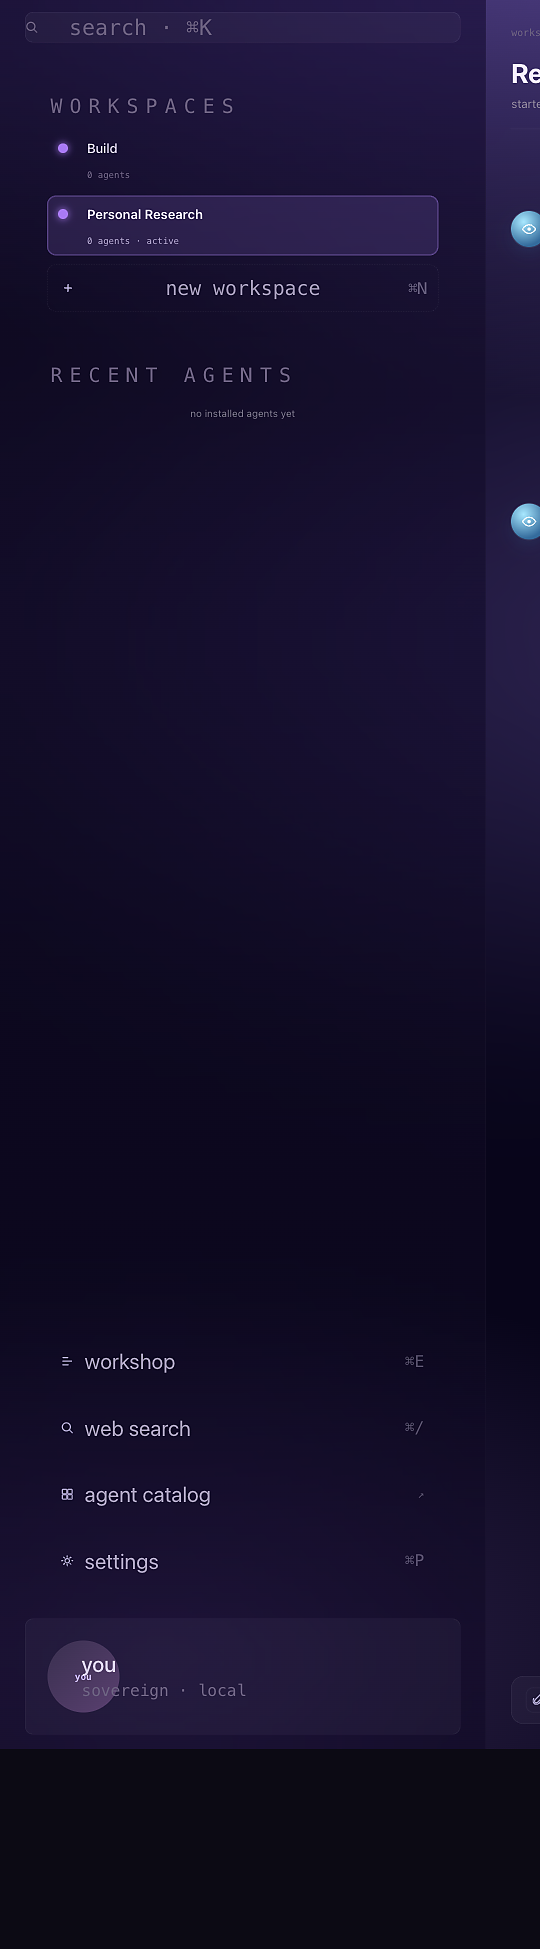
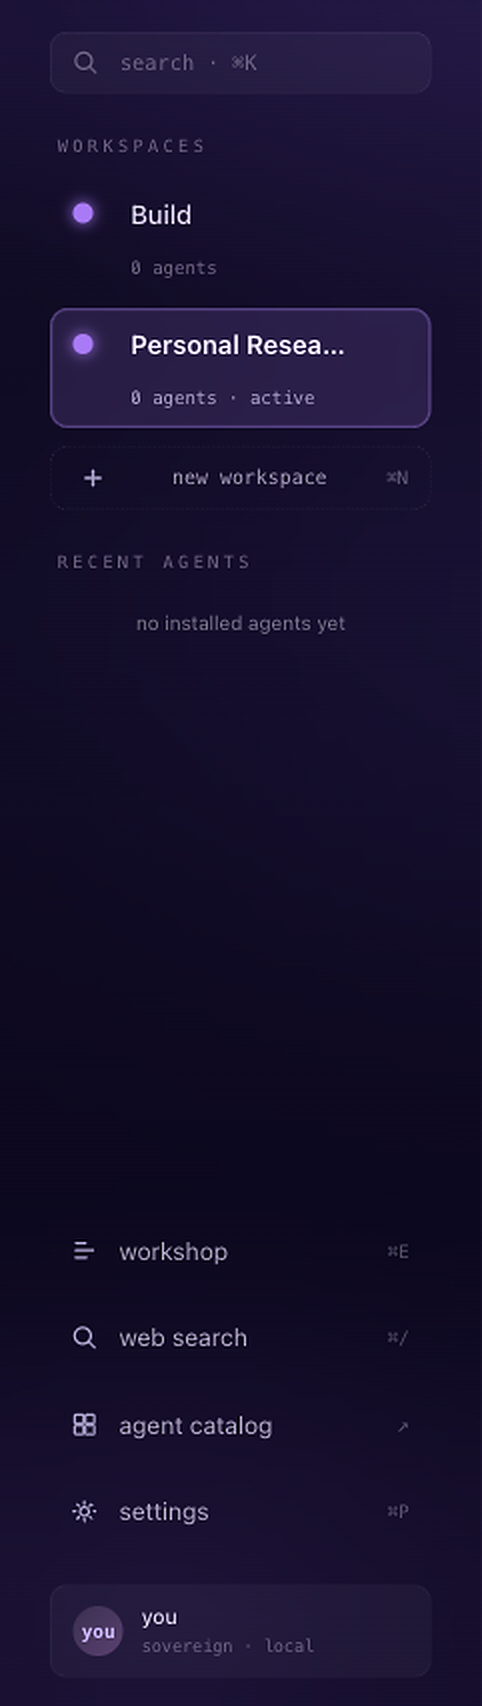
fix(guide): two-column layout for narrow pages · smaller markers · cockpit content visible
Three things were broken on the sidebar/cockpit pages:

  1. Image and legend competed for vertical space — at 64vh max-height
     with the tall 1:5.6 cockpit aspect, the image rendered as a thin
     sliver and the legend rows pushed under the sticky bottom nav.

  2. Markers were 32px which felt heavy at the displayed image scale.

  3. Recaptured cockpit at viewport 1600×900 (vs. the earlier 3200×2000
     capture). The shorter natural height of 853px gives a 1:2.7 aspect
     instead of 1:5.6 — fits in the available vertical without becoming
     a sliver. Cropped + 2× Lanczos upscaled + sharpened for crispness.

Layout fix uses CSS :has() — when the page contains .nx-g-shot-narrow
or .nx-g-shot-cockpit, the stage switches to a two-column grid: image
on the left at min(320px), legend on the right stacked vertically. The
title and body stay full-width above. The image can now be 70vh tall
without competing for room with the legend.

Markers shrunk 32px → 22px (font 14→11) so they sit naturally on
features without overpowering the screenshot.

diff --git a/nexus/aurora/app.css b/nexus/aurora/app.css
@@ -2142,6 +2142,38 @@ body.nx-cockpit-hidden .nx-cockpit-rail { display: none; }
   /* No per-render rise — the view-transition crossfade handles smoothness. */
   padding-top: 40px;
 }
+
+/* Narrow shots (sidebar/cockpit) — give them a side-by-side image+legend
+   layout so the tall image can use vertical space and the legend doesn't
+   compete with it. Uses :has() — fine on modern WKWebView/Chromium. */
+.nx-guide-stage:has(.nx-g-shot-narrow),
+.nx-guide-stage:has(.nx-g-shot-cockpit) {
+  display: grid;
+  grid-template-columns: minmax(220px, 320px) 1fr;
+  gap: 32px;
+  align-items: start;
+  column-gap: 36px;
+}
+.nx-guide-stage:has(.nx-g-shot-narrow) > .nx-g-eyebrow,
+.nx-guide-stage:has(.nx-g-shot-narrow) > .nx-g-title,
+.nx-guide-stage:has(.nx-g-shot-narrow) > .nx-g-body,
+.nx-guide-stage:has(.nx-g-shot-cockpit) > .nx-g-eyebrow,
+.nx-guide-stage:has(.nx-g-shot-cockpit) > .nx-g-title,
+.nx-guide-stage:has(.nx-g-shot-cockpit) > .nx-g-body {
+  grid-column: 1 / -1;
+}
+.nx-guide-stage:has(.nx-g-shot-narrow)  > .nx-g-shot-wrap,
+.nx-guide-stage:has(.nx-g-shot-cockpit) > .nx-g-shot-wrap {
+  grid-column: 1;
+  align-self: start;
+  margin-bottom: 0;
+}
+.nx-guide-stage:has(.nx-g-shot-narrow)  > .nx-g-legend,
+.nx-guide-stage:has(.nx-g-shot-cockpit) > .nx-g-legend {
+  grid-column: 2;
+  grid-template-columns: 1fr;     /* stack legend items vertically */
+  align-self: start;
+}
 .nx-g-eyebrow {
   font-family: var(--nx-font-mono);
   font-size: 10.5px; letter-spacing: 0.30em;
@@ -2212,35 +2244,38 @@ body.nx-cockpit-hidden .nx-cockpit-rail { display: none; }
    so the image renders at native aspect without letterboxing — markers
    positioned in image-percentage space then land exactly on features. */
 .nx-g-shot-wrap.nx-g-shot-narrow  { max-width: 320px; }
-.nx-g-shot-wrap.nx-g-shot-cockpit { max-width: 380px; }
+.nx-g-shot-wrap.nx-g-shot-cockpit { max-width: 320px; }
 
 .nx-g-shot {
   display: block;
   width: 100%;
   height: auto;
-  max-height: 64vh;
-  /* No object-fit — width:100%/height:auto preserves aspect, no letterboxing.
-     The wrap matches the image's rendered box exactly so % markers align. */
+  max-height: 56vh;        /* leaves room for legend + sticky nav (~96px) */
+}
+/* Narrow shots get more height since their legend sits beside them. */
+.nx-g-shot-narrow .nx-g-shot,
+.nx-g-shot-cockpit .nx-g-shot {
+  max-height: 70vh;
 }
 .nx-g-shot-markers { position: absolute; inset: 0; pointer-events: none; }
 .nx-g-marker {
   position: absolute;
   transform: translate(-50%, -50%);
-  width: 32px; height: 32px; border-radius: 50%;
+  width: 22px; height: 22px; border-radius: 50%;
   background: var(--nx-mood-primary);
   color: #0a0712;
-  font-family: var(--nx-font-mono); font-size: 14px; font-weight: 700;
+  font-family: var(--nx-font-mono); font-size: 11px; font-weight: 700;
   display: flex; align-items: center; justify-content: center;
   box-shadow:
-    0 0 0 4px rgba(6,4,12,0.85),
-    0 0 16px var(--nx-mood-glow),
+    0 0 0 3px rgba(6,4,12,0.85),
+    0 0 12px var(--nx-mood-glow),
     0 0 0 1px color-mix(in srgb, var(--nx-mood-primary) 60%, transparent) inset;
   pointer-events: none;
   animation: nx-g-marker-pulse 2.4s ease-in-out infinite alternate;
 }
 @keyframes nx-g-marker-pulse {
   from { transform: translate(-50%, -50%) scale(0.95); }
-  to   { transform: translate(-50%, -50%) scale(1.08); }
+  to   { transform: translate(-50%, -50%) scale(1.06); }
 }
 
 /* readable legend BELOW image — never clips */